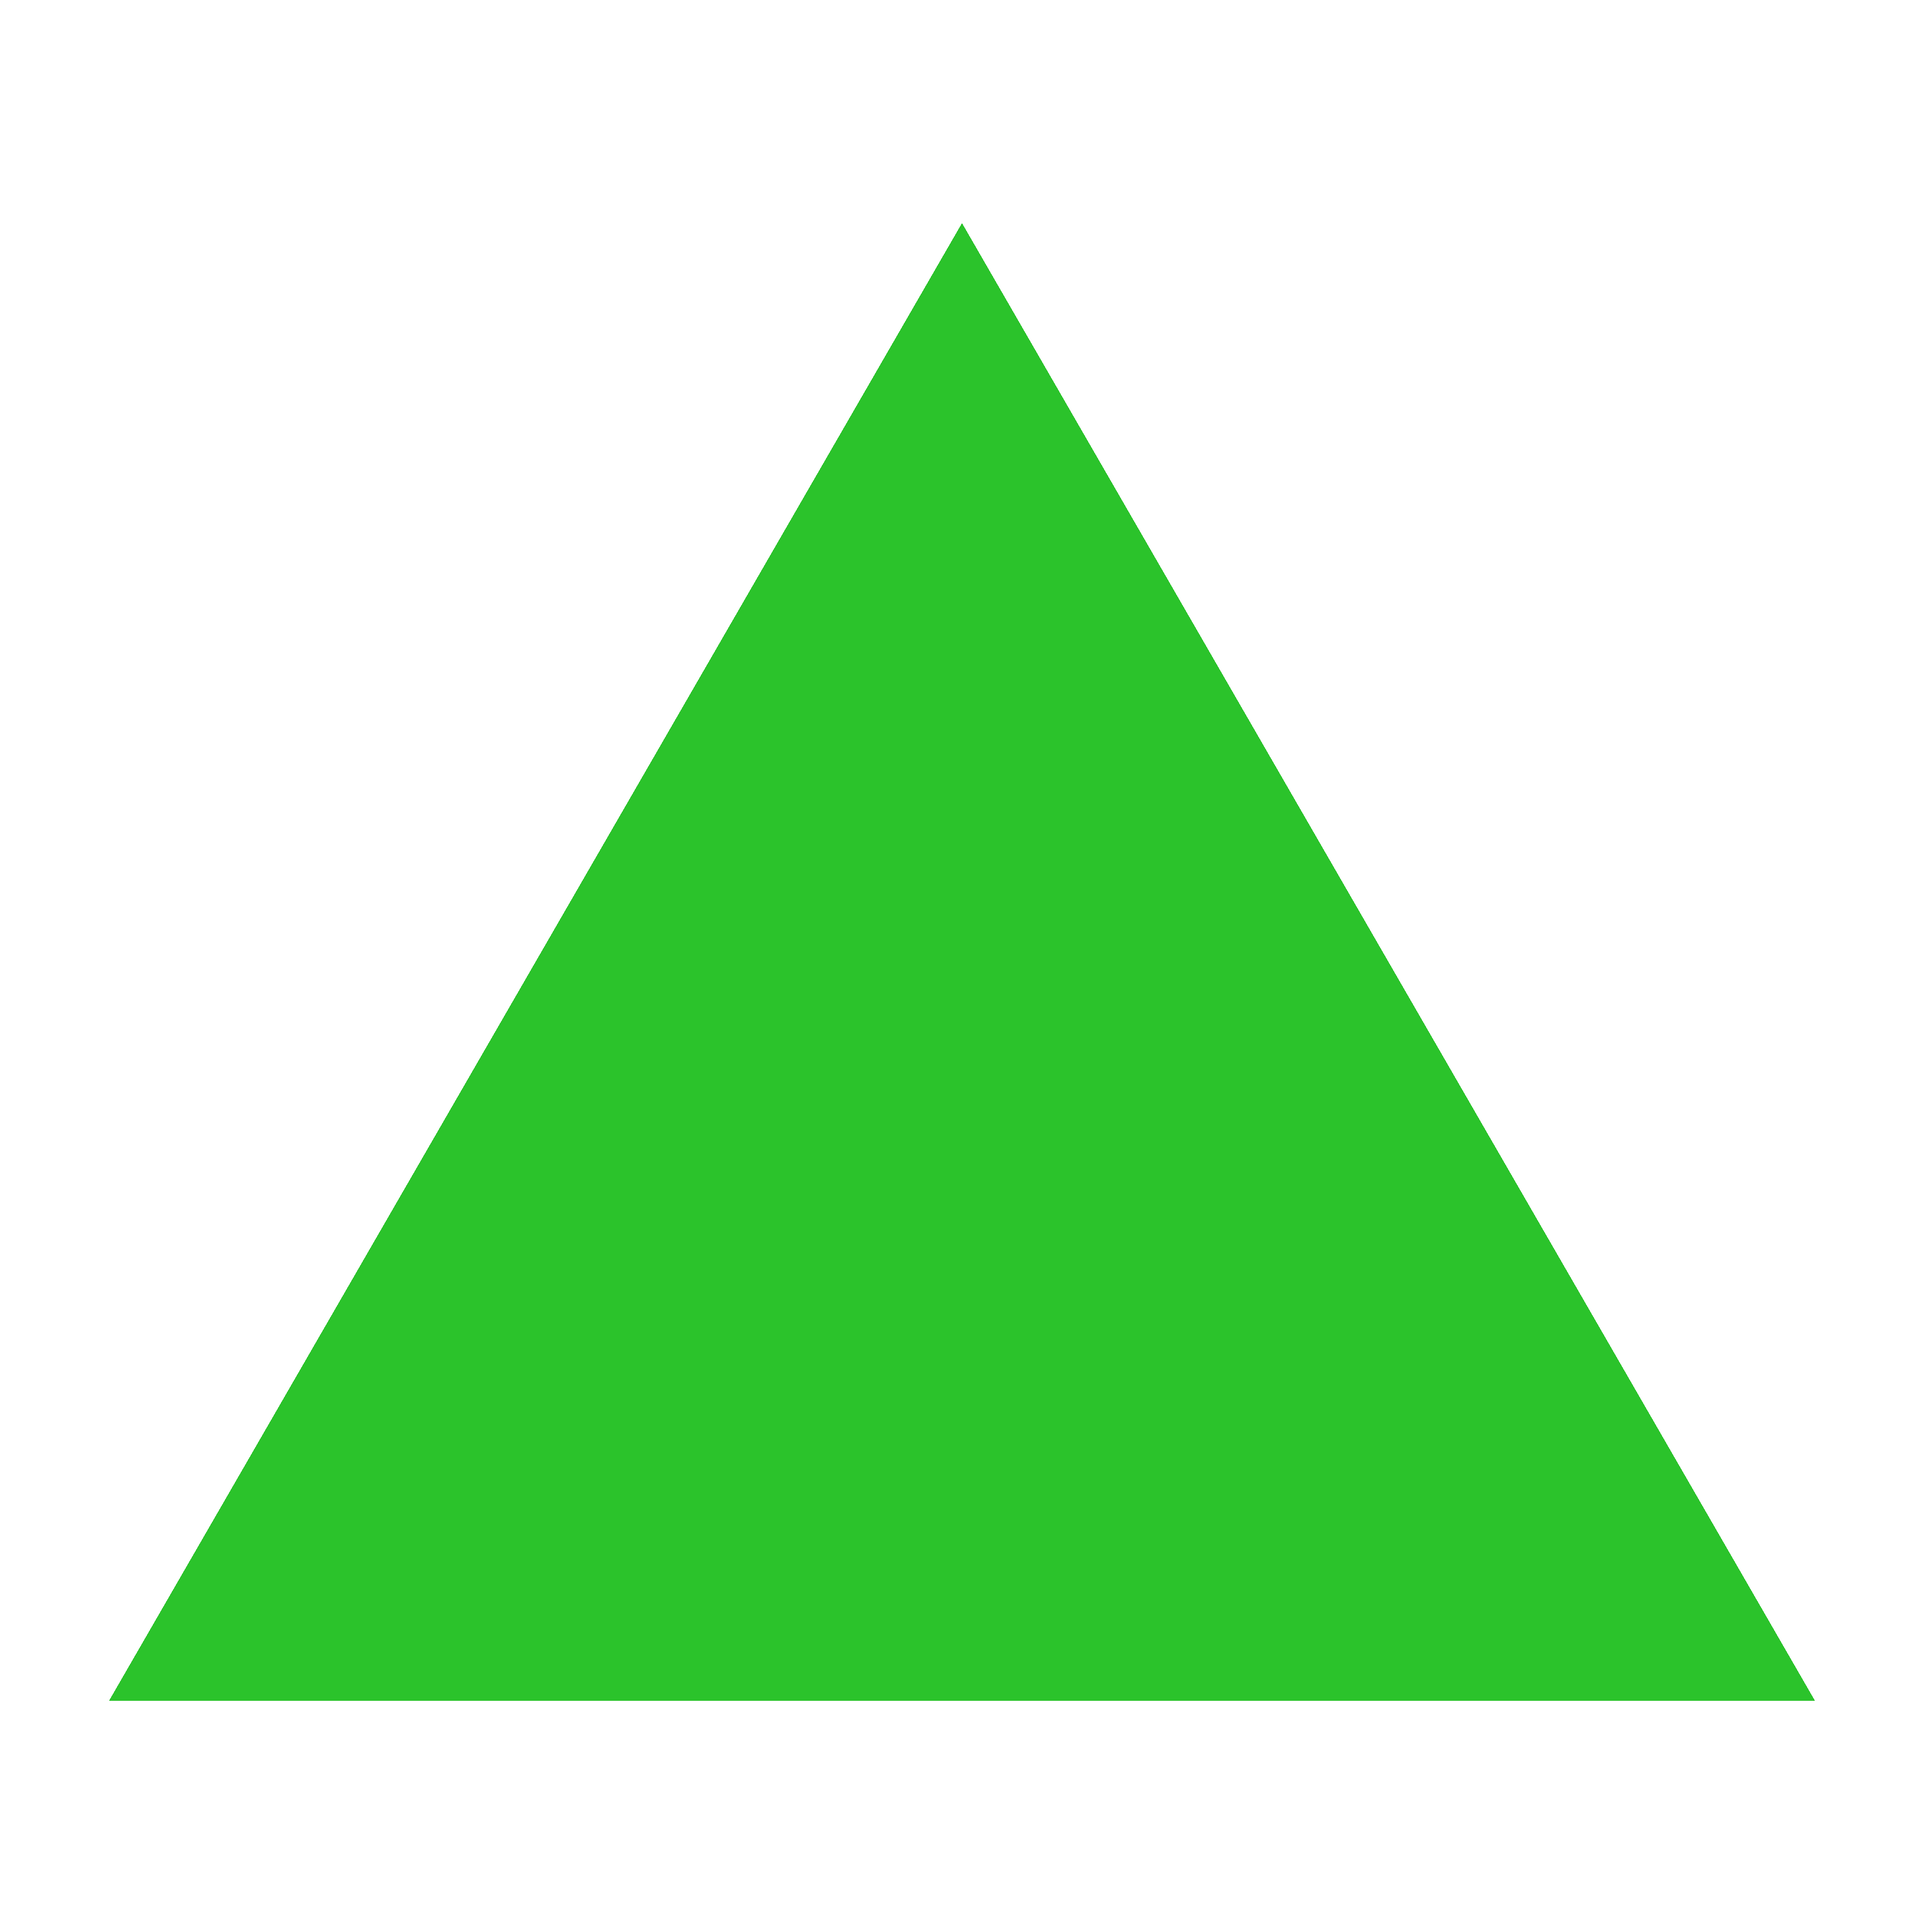
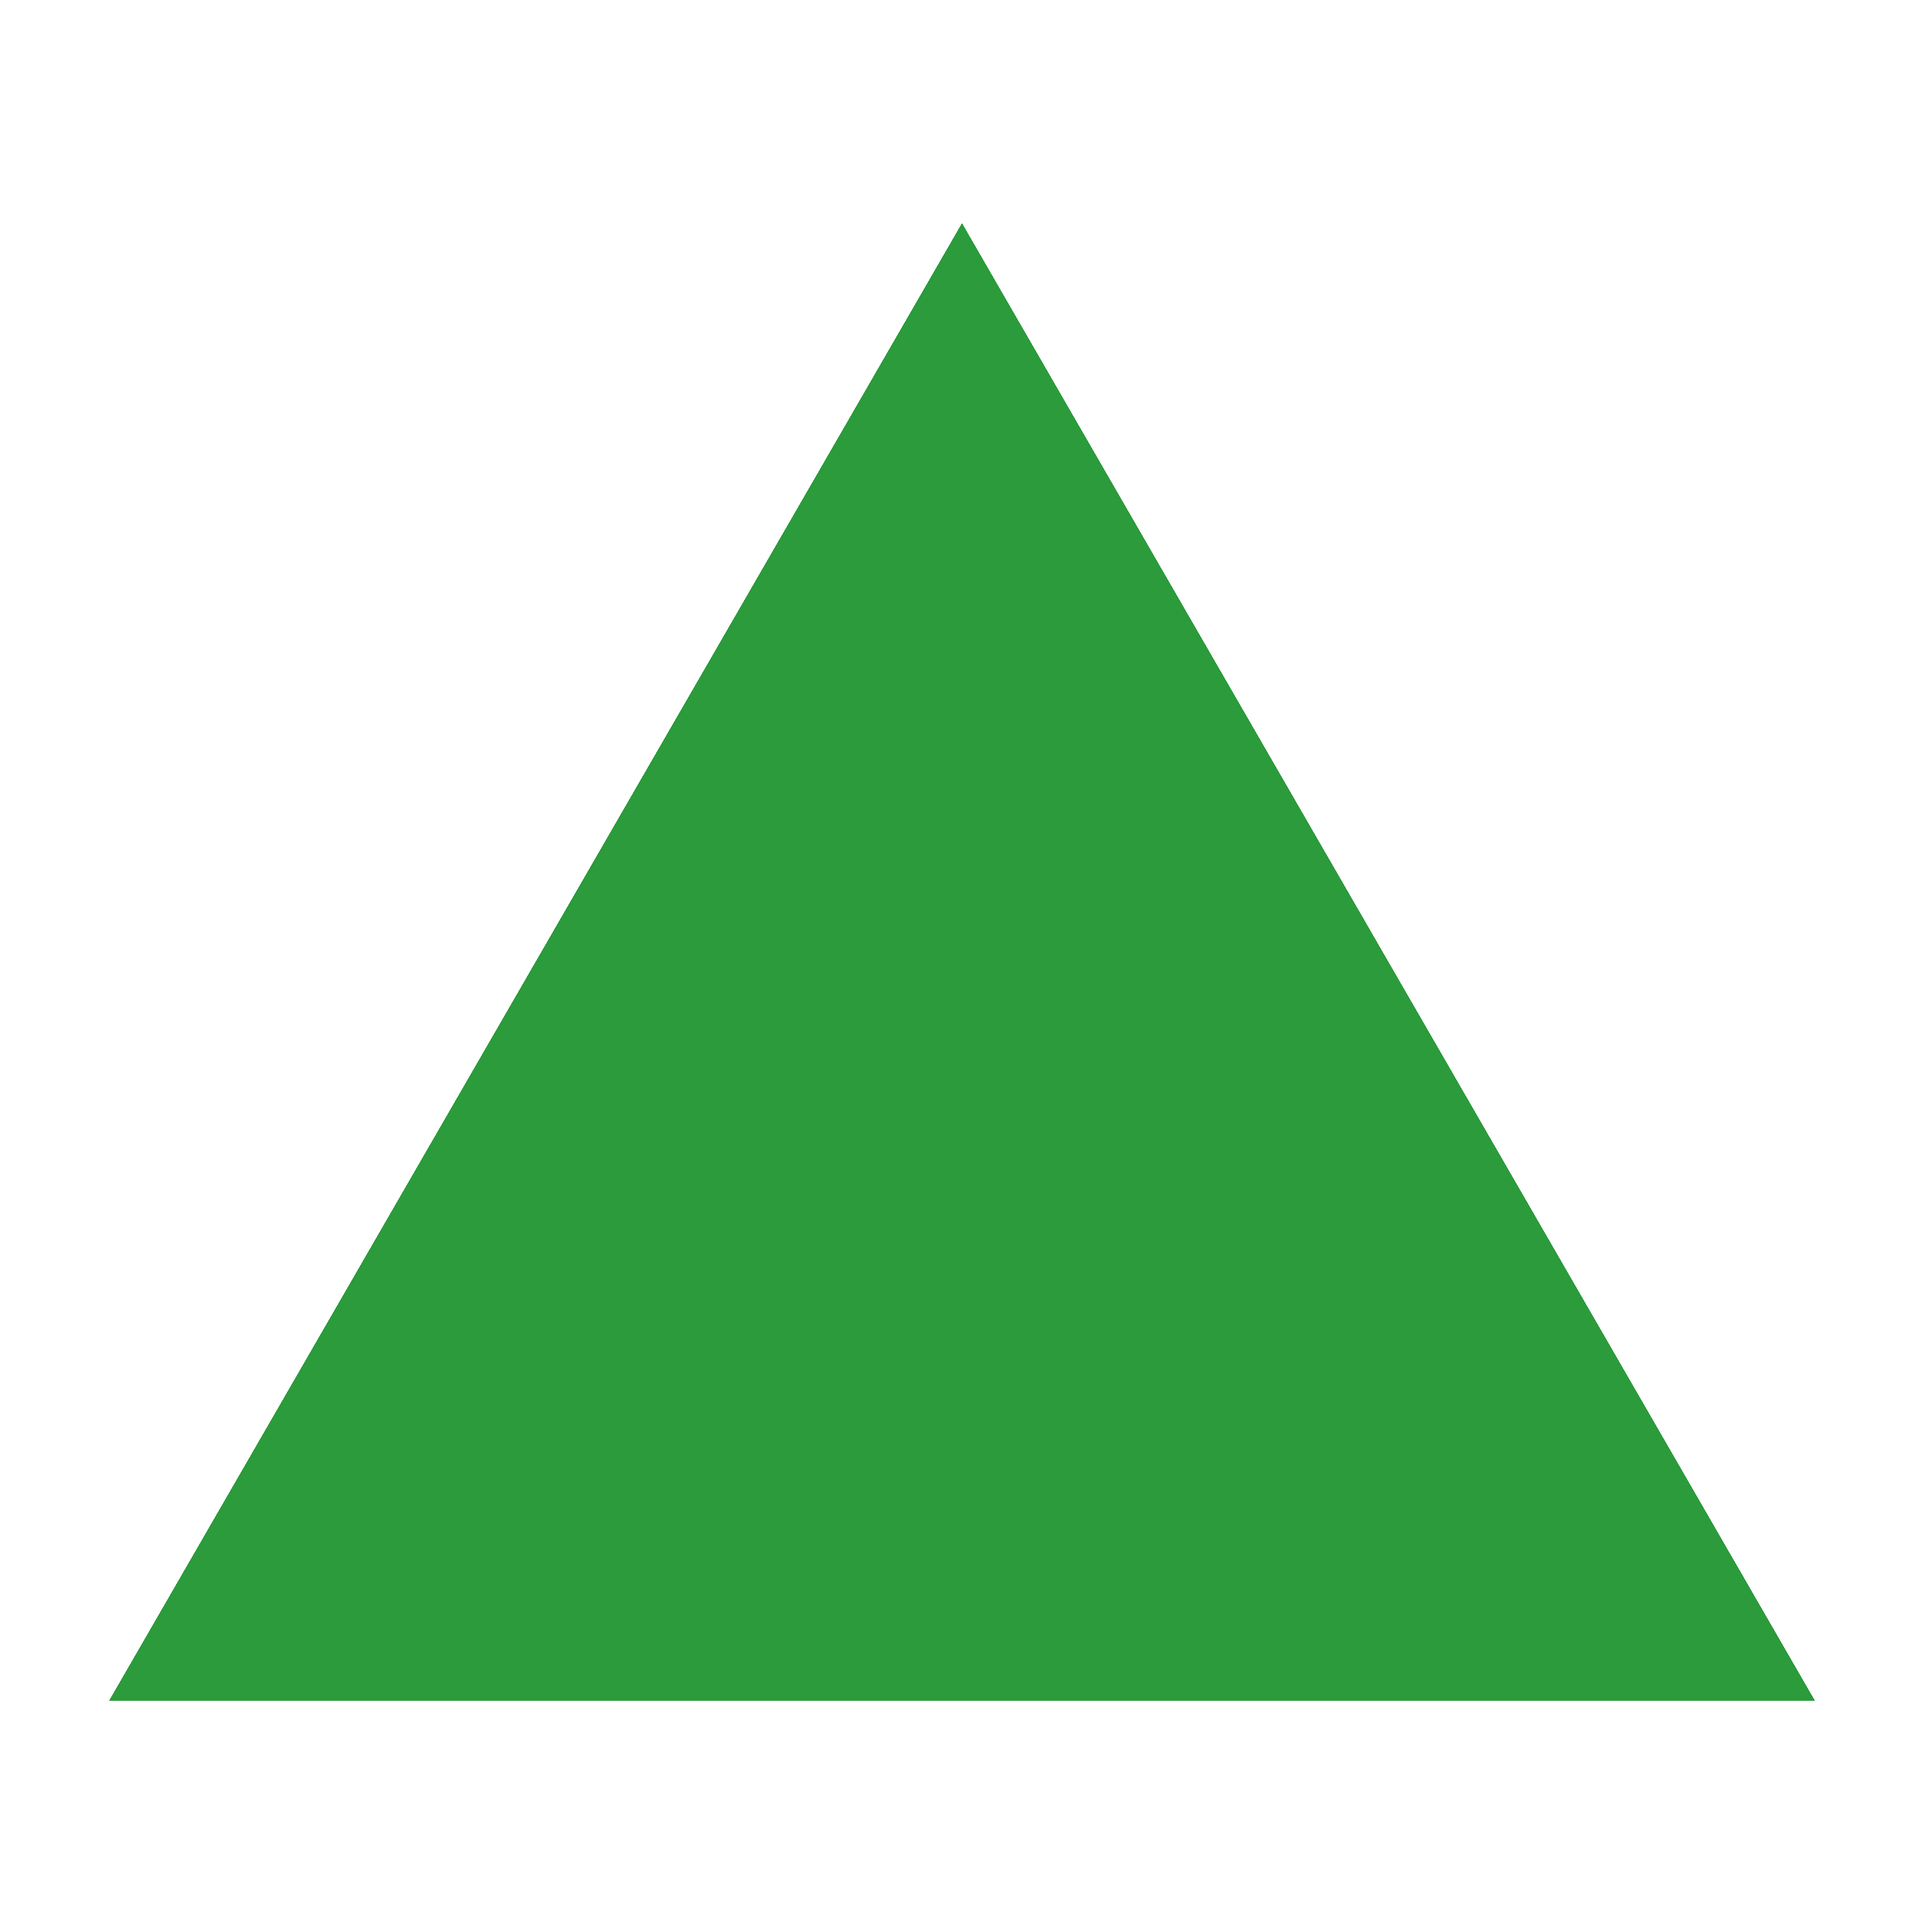
Update upvote triange color and maxCollaborator seed file

diff --git a/backend/seeders/seeds.js b/backend/seeders/seeds.js
@@ -117,7 +117,7 @@ const catFightSkellie = new Skeleton({
   title: "Meow mrrp meow.",
   prompt: "purr meow meow meow.",
   maxBones: 20,
-  maxCollabrators: 10,
+  maxCollaborators: 10,
   collaborators: [artie._id, ashy._id],
   bones: [],
   tags: [],
@@ -180,7 +180,7 @@ const demoOne = new Skeleton({
   title: "The Last Supper",
   prompt: "Joyce enjoyed eating pancakes with ketchup.",
   maxBones: 20,
-  maxCollabrators: 2,
+  maxCollaborators: 2,
   collaborators: [nathan._id],
   bones: [],
   tags: [],
@@ -368,7 +368,7 @@ for (const user of users){
       title: faker.random.words(numWordsTitle),
       prompt: faker.random.words(numWordsPrompt),
       maxBones: faker.datatype.number({'min': 5,'max': 50}),
-      maxCollabrators: faker.datatype.number({'min': 2,'max': 8}),
+      maxCollaborators: faker.datatype.number({'min': 2,'max': 8}),
       collaborators: [collaborator1Id, collaborator2Id],
       bones: [],
       tags: [],
